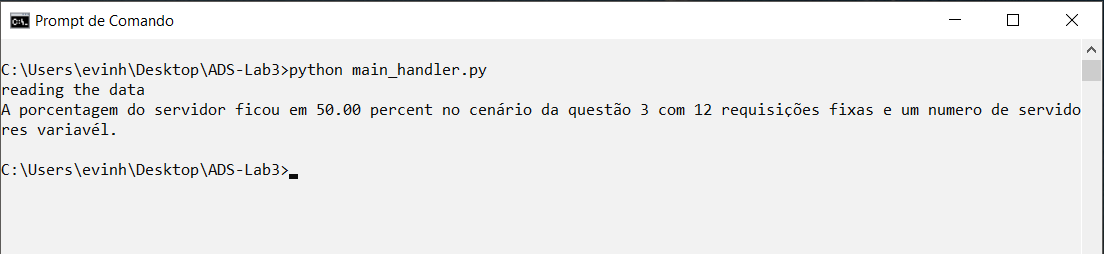
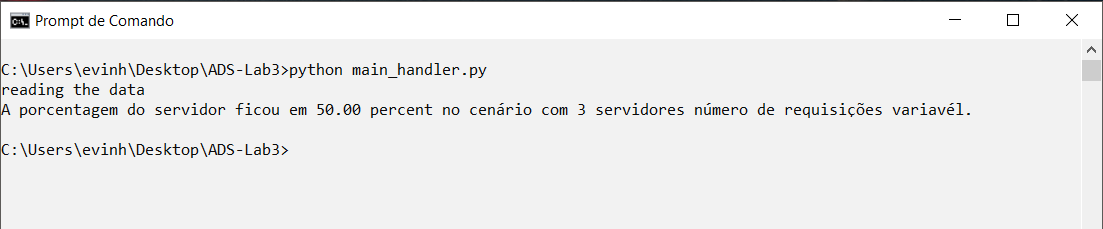
final version

Changed region(s): [[0.0, 0.0, 1.0, 1.0], [0.0, 0.6114, 0.2774, 0.7031]]

diff --git a/queueing_theory.py b/queueing_theory.py
@@ -39,7 +39,7 @@ class queueing:
 
             data[0].append(num_serv)
             data[1].append(tp_medio_resp)
-        print(self.dados)
+
         grafico.plot(self, data[0], data[1],'numero de servidores x por tempo médio resposta y')
 
     def tmp_md_resp_percent(self):
@@ -53,7 +53,7 @@ class queueing:
                 data[1].append(tp_medio_resp)
             data2[0].append(tx_chegada)
             data2[1].append(tp_medio_resp)
-        print(data2)
+
         grafico.plot(self, data[0], data[1],'max de requisições é de '+str(data[0][-1]) +' x por tempo médio resposta y')
         grafico.plot(self, data2[0], data2[1],'max de requisições x por tempo médio resposta y')
 

diff --git a/main_handler.py b/main_handler.py
@@ -34,7 +34,7 @@ def questao4b():
     hand = handler(dados, dir_)
     hand.dados_arquivos()
     theory = queueing(dados)
-    print("A porcentagem do servidor ficou em %.2f percent no cenário da questão 3 com 12 requisições fixas e um numero de servidores variavél." %theory.percent())
+    print("A porcentagem do servidor ficou em %.2f percent no cenário com 3 servidores número de requisições variavél." %theory.percent())
 
 questao2()
 questao3()
